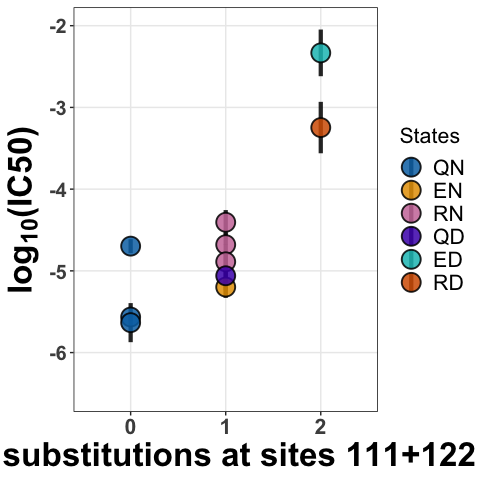
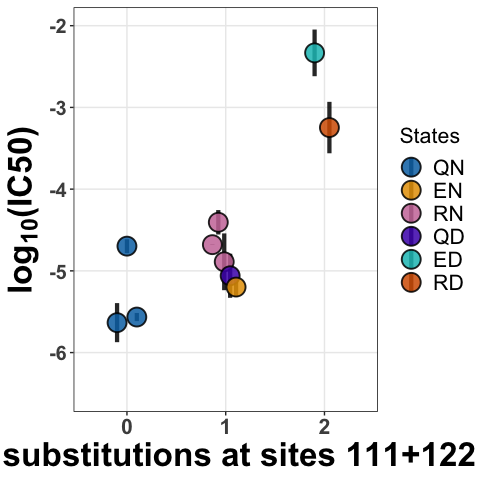
fixed fig4 script

diff --git a/notebooks/mutation_effects.md b/notebooks/mutation_effects.md
@@ -113,35 +113,7 @@ data_sum$new_x <- c(1.17,0.15,0.8,1.85,0.85,0,-0.15,0.85,0.9,2.1)
 native_prots <- data_sum[c(1,2,3,7),]
 
 #Plot
-p1 <- ggplot(data_sum,aes(x=factor(mutation),y=meanIC50),color=state) +
-  geom_pointrange(aes(ymin=meanIC50-se, ymax=meanIC50+se,fill=state), size=1.5,shape=21,alpha=0.85) +
-  scale_fill_manual(values = c("#0072B2","#E69F00","#CC79A7","#4c04b8","#0fbfbf","#D55E00")) +
-  labs(x = "# substitutions at sites 111+122", y = expression(bold(paste("log"["10"],"(IC50)"))),fill="States") +
-  theme(
-    panel.background = element_rect(fill = NA),
-    panel.border = element_rect(linetype = 1, fill = NA),
-    panel.grid.major = element_line(colour = "grey92"),
-    axis.text.x = element_text(face="bold", size=16),
-    axis.text.y = element_text(face="bold", size=15), 
-    axis.title = element_text(face="bold", size=25)
-  ) +
-  scale_y_continuous(limits = c(-6.5,-2)) +
-  theme(legend.box.background = element_blank(),
-        legend.key = element_rect(fill = "white"),
-        legend.text = element_text(size=16),
-        legend.title = element_text(size=16)) #+
-  geom_text_repel(data=data_sum,aes(label=construct), color = 'grey40', box.padding = unit(0.35, "lines"), 
-                point.padding = unit(0.5, "lines"),force=1,direction="both",size=3)
-```
-
-    ## mapping: label = ~construct 
-    ## geom_text_repel: parse = FALSE, na.rm = FALSE, box.padding = 0.35, point.padding = 0.5, segment.colour = NULL, segment.size = 0.5, segment.alpha = NULL, min.segment.length = 0.5, arrow = NULL, force = 1, max.iter = 2000, nudge_x = 0, nudge_y = 0, xlim = c(NA, NA), ylim = c(NA, NA), direction = both, seed = NA
-    ## stat_identity: na.rm = FALSE
-    ## position_identity
-
-``` r
-#Alternative plot
-p2 <- ggplot(data_sum,aes(x=new_x,y=meanIC50),color=state) +
+ggplot(data_sum,aes(x=new_x,y=meanIC50),color=state) +
     geom_pointrange(aes(ymin=meanIC50-se, ymax=meanIC50+se,fill=state), size=1.5,shape=21,alpha=0.85,
                     position=position_dodge2(width=0.3)) +
     scale_fill_manual(values = c("#0072B2","#E69F00","#CC79A7","#4c04b8","#0fbfbf","#D55E00")) +
@@ -160,13 +132,14 @@ p2 <- ggplot(data_sum,aes(x=new_x,y=meanIC50),color=state) +
           legend.key = element_rect(fill = "white"),
           legend.text = element_text(size=16),
           legend.title = element_text(size=16)) #+
-  #geom_text_repel(data=data_sum,aes(label=construct), color = 'grey40', box.padding = unit(0.35, "lines"), 
-  #                point.padding = unit(0.5, "lines"),force=1,direction="both",size=3)
-
-p1 
 ```
 
 ![](mutation_effects_files/figure-markdown_github/panelC-1.png)
+
+``` r
+  #geom_text_repel(data=data_sum,aes(label=construct), color = 'grey40', box.padding = unit(0.35, "lines"), 
+  #                point.padding = unit(0.5, "lines"),force=1,direction="both",size=3)
+```
 
 Panel D
 -------
